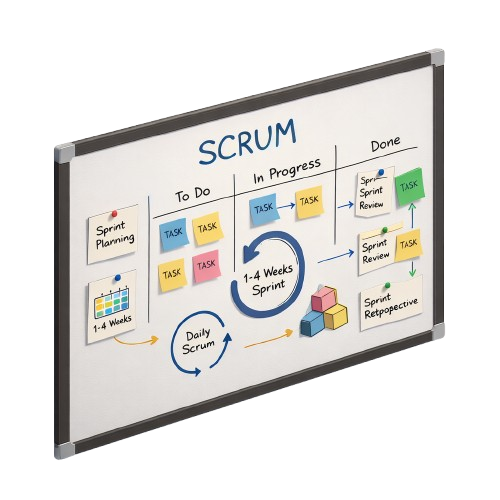
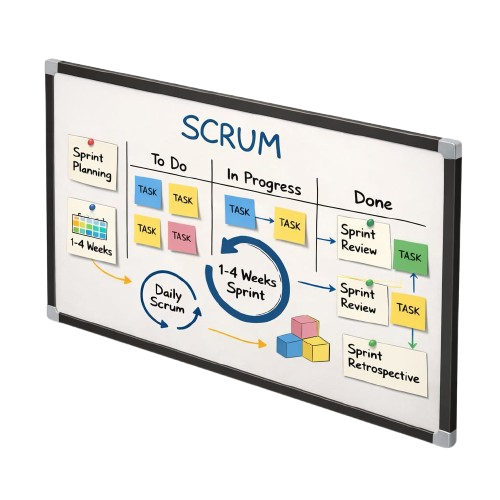
feat: board and book develop

diff --git a/src/components/overlays/bookshelfOverlay.tsx b/src/components/overlays/bookshelfOverlay.tsx
@@ -1,16 +1,33 @@
 import "../../styles/room/bookshelf.css";
 import "../../styles/index.css";
+import { useState } from "react";
 
 export default function BookshelfOverlay() {
   const techs = [
     {
       id: 1,
       name: "React",
+      level: 5,
       description:
         "Biblioteca de JavaScript para construir interfaces de usuario.",
+      projects: "Proyecto de portafolio, proyecto de e-commerce",
       image: "/assets/icos/react.png",
-    }
+    },
   ];
+
+  const [page, setPage] = useState(1);
+
+  const antPage = () => {
+    if (page > 1) {
+      setPage(page - 1);
+    }
+  };
+
+  const nextPage = () => {
+    if (page < techs.length) {
+      setPage(page + 1);
+    }
+  };
 
   return (
     <>
@@ -19,7 +36,70 @@ export default function BookshelfOverlay() {
       </p>
 
       <section className="bookshelf-mockup">
-        <h1>hola libros</h1>
+        <img src="/assets/book/openBook.png" alt="open book" />
+
+        <span className="leftNum">{page}</span>
+        <span className="rightNum">{page + 1}</span>
+
+        <button className="postBTN" onClick={nextPage}>
+          Pasar Página →
+        </button>
+
+        <div className="bookshelf-index">
+          <h2>Indice</h2>
+          <ul>
+            <li>Sobre Mi</li>
+            <li>Experiencia</li>
+            <li>Skills Tecnicas</li>
+            <li>Soft Skills</li>
+          </ul>
+        </div>
+
+        <div className="bookshelf-about">
+          <h2>Sobre Mi</h2>
+          <p>
+            Soy desarrollador web full-stack, con experiencia en HTML, CSS,
+            JavaScript, React, Angular, Astro, NodeJS, SQL. Además, cuento con
+            formación en diseño gráfico, UX/UI y SEO técnico, lo que me permite
+            ofrecer soluciones web completas, optimizadas para rendimiento y
+            usabilidad.
+          </p>
+          <p>
+            He trabajado en proyectos de desarrollo y diseño tanto como
+            desarrollador web en Impacto SEO como full stack freelance, donde he
+            creado y optimizado sitios web adaptables y centrados en la
+            experiencia del usuario. Me apasiona aprender nuevas tecnologías y
+            contribuir a proyectos desafiantes.
+          </p>
+        </div>
+
+        <div className="bookshelf-exp">
+          <h2>Experiencia</h2>
+          <ul>
+            <li>
+              <h3>Impacto SEO</h3>
+              <p>
+                Lorem ipsum dolor sit amet consectetur adipisicing elit. Dolores
+                nostrum, quo, similique ad ipsam obcaecati dignissimos corrupti
+                eaque molestias nemo saepe officia. Soluta vero sed nam dolorem?
+                Doloribus, earum aut?
+              </p>
+            </li>
+            <li>
+              <h3>Freelance</h3>
+              <p>
+                Lorem ipsum dolor sit amet consectetur adipisicing elit. Dolores
+                nostrum, quo, similique ad ipsam obcaecati dignissimos corrupti
+                eaque molestias nemo saepe officia. Soluta vero sed nam dolorem?
+                Doloribus, earum aut?
+              </p>
+            </li>
+          </ul>
+        </div>
+
+        <button className="antBTN" onClick={antPage}>
+          ← Página Anterior
+        </button>
       </section>
     </>
   );

diff --git a/src/styles/room/bookshelf.css b/src/styles/room/bookshelf.css
@@ -1,5 +1,5 @@
 .bookshelf-mockup {
-  width: 70vw;
+  width: 57vw;
   height: 84.5vh;
   position: absolute;
   top: 50%;
@@ -9,4 +9,120 @@
   border-radius: 12px;
   overflow: hidden;
   box-shadow: 0 0 20px black;
+}
+
+.bookshelf-index {
+  z-index: 5;
+  position: relative;
+  left: 5vw;
+  top: 4vh;
+}
+
+.bookshelf-index h2 {
+  font-size: 3.2rem;
+}
+
+.bookshelf-index ul {
+  list-style: none;
+  padding: 0.5rem 1rem;
+}
+
+.bookshelf-index ul li {
+  margin: 0.5rem 0;
+  font-size: 1.5rem;
+}
+
+.bookshelf-about {
+  display: none;
+  z-index: 5;
+  position: absolute;
+  right: 5vw;
+  top: 4vh;
+  font-size: 1.5rem;
+  max-width: 20vw;
+}
+
+.bookshelf-about h2 {
+  font-size: 2.7rem;
+}
+
+.bookshelf-about p {
+  margin: 1rem 0;
+  line-height: 1.4;
+}
+
+.bookshelf-about.active {
+  display: block;
+}
+
+.bookshelf-exp {
+  display: none;
+  z-index: 5;
+  position: absolute;
+  right: 5vw;
+  top: 4vh;
+  font-size: 1.5rem;
+  max-width: 20vw;
+}
+
+.bookshelf-exp h2 {
+  font-size: 2.7rem;
+}
+
+.bookshelf-exp ul {
+  list-style: none;
+  padding: 0.5rem 1rem;
+}
+
+.bookshelf-exp ul li {
+  margin: 0.5rem 0;
+  font-size: 1.5rem;
+}
+
+.bookshelf-exp.active {
+  display: block;
+}
+
+.postBTN {
+  position: absolute;
+  bottom: 4vh;
+  right: 1vw;
+  transform: translateX(-50%);
+  padding: 0.5rem 1.5rem;
+  font-size: 1.2rem;
+  background-color: #333;
+  color: white;
+  border: none;
+  border-radius: 8px;
+  cursor: pointer;
+}
+
+.antBTN {
+  position: absolute;
+  bottom: 4vh;
+  left: 9vw;
+  transform: translateX(-50%);
+  padding: 0.5rem 1.5rem;
+  font-size: 1.2rem;
+  background-color: #333;
+  color: white;
+  border: none;
+  border-radius: 8px;
+  cursor: pointer;
+}
+
+.leftNum {
+  position: absolute;
+  bottom: 5vh;
+  left: 16vw;
+  font-weight: 700;
+  font-size: 1.3rem;
+}
+
+.rightNum {
+  position: absolute;
+  bottom: 5vh;
+  right: 15vw;
+  font-weight: 700;
+  font-size: 1.3rem;
 }

diff --git a/src/styles/room/room.css b/src/styles/room/room.css
@@ -85,6 +85,7 @@
   width: 22% !important;
   height: 26% !important;
   z-index: 3;
+  filter: drop-shadow(0 0 4px black);
 }
 
 .board {
@@ -93,6 +94,7 @@
   width: 14% !important;
   height: 32% !important;
   z-index: 3;
+  filter: drop-shadow(8px 10px 12px black);
 }
 
 .poke-pixel {
